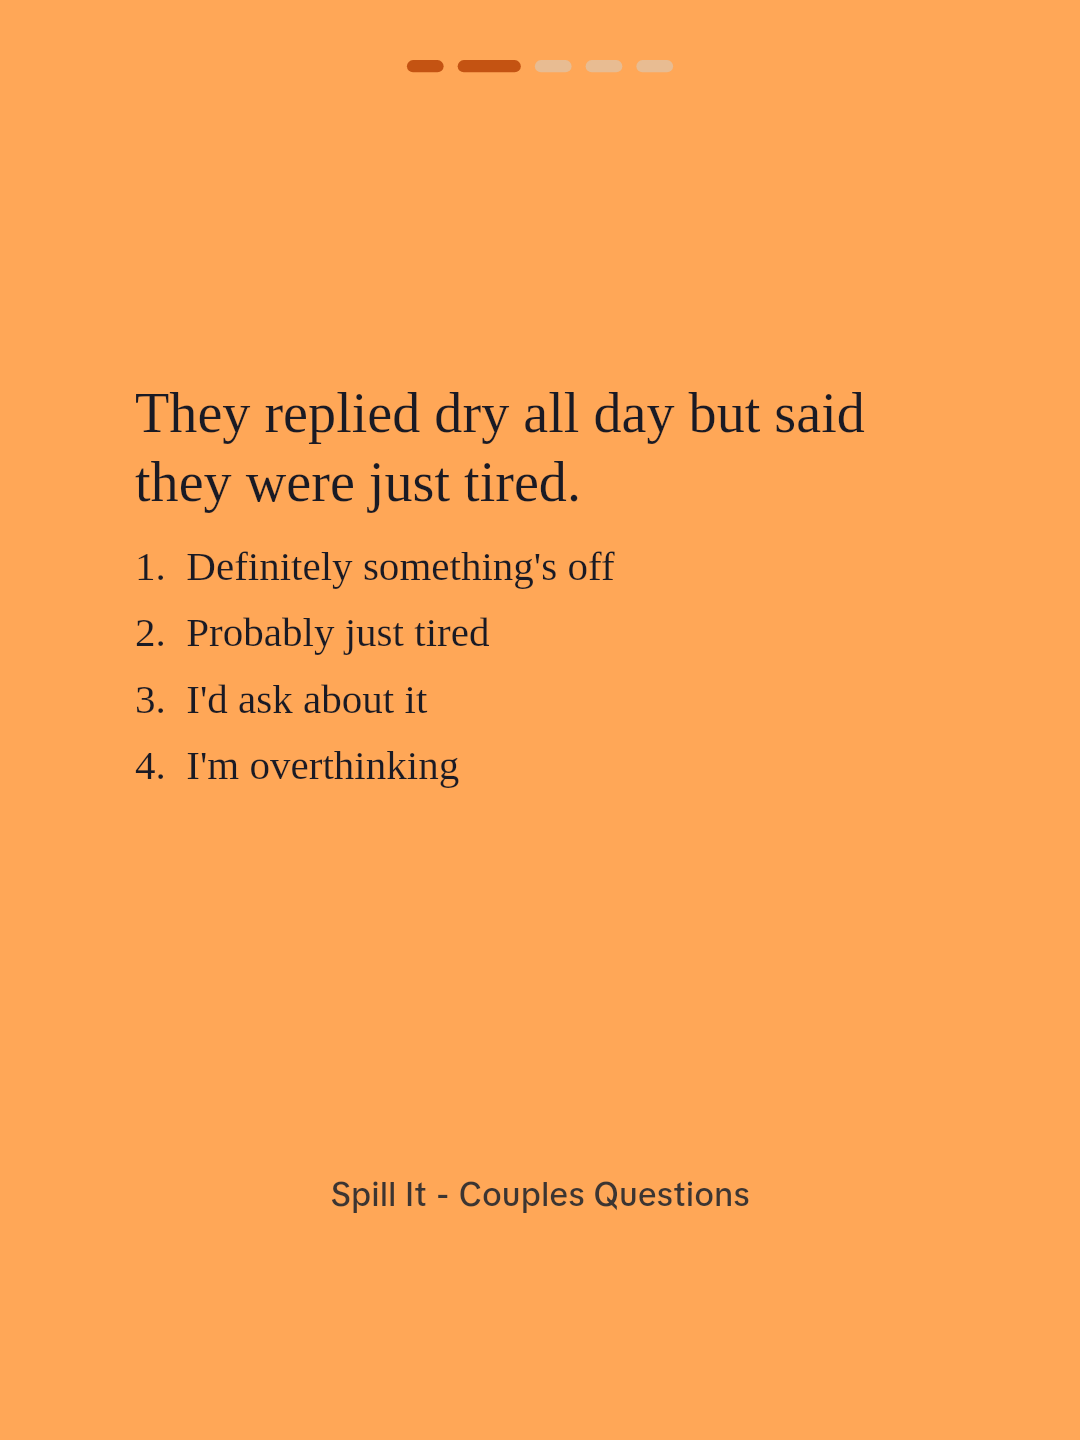
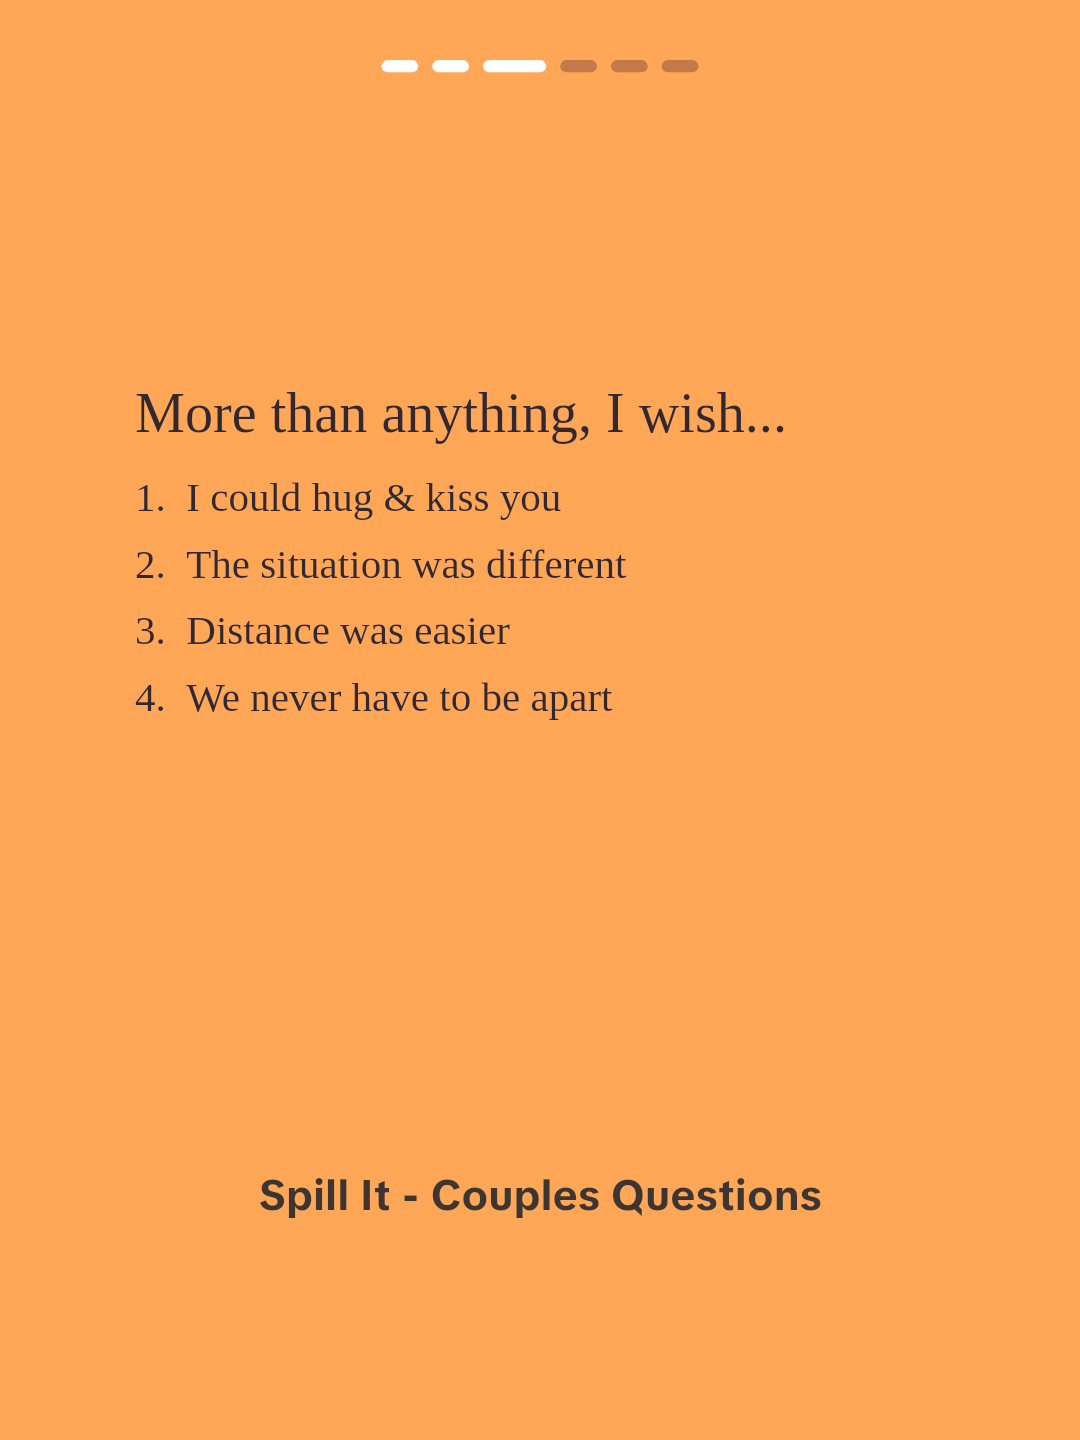
Match pastel dash progress, footer, and glow cover.
Question slides now count the cover as the first dash, the footer is larger and heavier, and the glow card uses a wider milky halo with rounder corners and the Spill It line on the blue card. Teal and orange question slides keep completed dashes light.

diff --git a/app/lib/image-template-30-pastel-dashes.ts b/app/lib/image-template-30-pastel-dashes.ts
@@ -6,20 +6,22 @@ import { paintImageTemplate2Q5Promo } from '@/app/lib/image-template-2-cover';
  * Pastel dash slideshow (image template 30).
  *
  * Full-bleed flat colour, no card and no vignette. The colour changes per
- * slide. Question slides carry a small centred progress bar of rounded dashes,
- * one per question: dashes up to the current one are a darker accent, and the
- * current dash is wider. The rest stay faint.
+ * slide. Question slides carry a small centred progress bar of rounded dashes.
+ * The cover is the first segment, then one dash per question. The CTA is not
+ * a dash. Completed segments (including the cover) use the accent, the current
+ * question is the same colour and wider, and the rest stay faint. A five-question
+ * set therefore has six dashes, and the first question is short + wide + four faint.
  *
- * Sans (the main look): bold dark navy question, left aligned around a third
+ * Sans (the main look): bold warm-ink question, left aligned around a third
  * of the height, with lettered options "A.  yes". The cover is a centred bold
  * headline with one keyword on a soft pink marker. No progress bar on the cover.
  *
  * Serif: the same colour, dashes, and footer, with a regular serif question
  * and numbered options "1.  …". The plain cover is centred serif with no marker.
  *
- * Glow cover: a bright-blue rounded card with a soft blurred edge on black,
- * and centred bold black sans. Choosing it also switches the question colours
- * to the brighter set.
+ * Glow cover: a bright-blue rounded card on black, with a wide milky halo
+ * rather than a tight rim, centred bold black sans, and the Spill It footer
+ * on the card. Choosing it also switches the question colours to the brighter set.
  *
  * The last slide is template 2's "Download for more questions!" App Store mock.
  * Footer is the shared Spill It string. Type is TikTok Sans, or Liberation Serif
@@ -31,6 +33,8 @@ export const IMAGE_TEMPLATE30_CTA_TAB = IMAGE_TEMPLATE30_SLIDE_COUNT - 1;
 
 export const IMAGE_TEMPLATE30_FOOTER = IMAGE_TEMPLATE2_APP_FOOTER;
 export const IMAGE_TEMPLATE30_INK = '#1A1A24';
+/** Question body, warmed slightly from the cover ink toward a brown-plum. */
+export const IMAGE_TEMPLATE30_QUESTION_INK = '#322830';
 export const IMAGE_TEMPLATE30_FOOTER_COLOR = '#645655';
 export const IMAGE_TEMPLATE30_MARKER = 'rgba(255, 142, 150, 0.72)';
 export const IMAGE_TEMPLATE30_GLOW_CARD = '#3DB7FF';
@@ -101,10 +105,15 @@ const SERIF_QUESTIONS: readonly SlideTone[] = [
   { bg: '#F7E38A', accent: '#C49A2A', faint: '#E6D48A' },
 ];
 
-/** Brighter question colours that travel with the glow-card cover. */
+/**
+ * Brighter question colours that travel with the glow-card cover.
+ * Teal and orange are bright enough that a dark accent inverts the bar:
+ * completed and current dashes stay light, and the remaining dashes are a
+ * darker muted shade of the field.
+ */
 const BRIGHT_QUESTIONS: readonly SlideTone[] = [
-  { bg: '#01C1A8', accent: '#0A5E54', faint: '#7ED9CB' },
-  { bg: '#FFA757', accent: '#C45312', faint: '#E8BC92' },
+  { bg: '#01C1A8', accent: '#FFFFFF', faint: '#2A6E64' },
+  { bg: '#FFA757', accent: '#FFFFFF', faint: '#C17A48' },
   { bg: '#FFA6D6', accent: '#D43A86', faint: '#E898C8' },
   { bg: '#7FD0FF', accent: '#1A6FB0', faint: '#B7E4FA' },
   { bg: '#FFE14A', accent: '#C48A12', faint: '#E8D48A' },
@@ -125,8 +134,8 @@ const OPTION_WEIGHT_SANS = 700;
 const OPTION_WEIGHT_SERIF = 400;
 
 const FOOTER_Y = 0.83;
-const FOOTER_SIZE = 0.03;
-const FOOTER_WEIGHT = 500;
+const FOOTER_SIZE = 0.039;
+const FOOTER_WEIGHT = 700;
 
 const COVER_SIZE = 0.064;
 const COVER_LEADING = 1.14;
@@ -141,9 +150,10 @@ const BAR_WIDTH = 0.034;
 const BAR_CURRENT_SCALE = 1.72;
 const BAR_GAP = 0.013;
 
-const GLOW_INSET_X = 0.078;
-const GLOW_INSET_Y = 0.062;
-const GLOW_RADIUS = 0.055;
+const GLOW_INSET_X = 0.069;
+const GLOW_INSET_Y = 0.052;
+/** Well above the old 0.055 rim, so the blue card reads as a rounded slab. */
+const GLOW_RADIUS = 0.11;
 
 const STOPWORDS = new Set([
   'is', 'it', 'to', 'for', 'your', 'the', 'a', 'an', 'of', 'and', 'do', 'this', 'that',
@@ -396,19 +406,21 @@ function paintProgress(
   accent: string,
   faint: string
 ) {
-  const count = Math.max(1, questionCount);
-  const current = Math.min(count, Math.max(1, tabIndex));
+  const questions = Math.max(1, questionCount);
+  // Index 0 is the cover. The CTA is not a segment.
+  const count = questions + 1;
+  const current = Math.min(questions, Math.max(1, tabIndex));
   const dashH = Math.max(8, height * BAR_HEIGHT);
   const dashW = width * BAR_WIDTH;
   const gap = width * BAR_GAP;
   const widths = Array.from({ length: count }, (_, index) =>
-    index + 1 === current ? dashW * BAR_CURRENT_SCALE : dashW
+    index === current ? dashW * BAR_CURRENT_SCALE : dashW
   );
   const total = widths.reduce((sum, value) => sum + value, 0) + gap * Math.max(0, count - 1);
   let x = (width - total) / 2;
   const y = height * BAR_Y - dashH / 2;
   widths.forEach((dashWidth, index) => {
-    ctx.fillStyle = index < current ? accent : faint;
+    ctx.fillStyle = index <= current ? accent : faint;
     roundRect(ctx, x, y, dashWidth, dashH, dashH / 2);
     ctx.fill();
     x += dashWidth + gap;
@@ -508,13 +520,21 @@ function paintGlowCover(
   const cardW = width - left * 2;
   const cardH = height - top * 2;
   const radius = width * GLOW_RADIUS;
-  ctx.save();
-  ctx.shadowColor = 'rgba(61, 183, 255, 0.95)';
-  ctx.shadowBlur = width * 0.05;
-  ctx.fillStyle = IMAGE_TEMPLATE30_GLOW_CARD;
-  roundRect(ctx, left, top, cardW, cardH, radius);
-  ctx.fill();
-  ctx.restore();
+  // A pale bloom under the card. Shadow blur stays grey in this canvas, so the
+  // halo is a blurred milky fill that the flat card covers.
+  const paintBloom = (blurRatio: number, color: string, growRatio: number) => {
+    const grow = width * growRatio;
+    ctx.save();
+    ctx.filter = `blur(${Math.max(1, width * blurRatio)}px)`;
+    ctx.fillStyle = color;
+    roundRect(ctx, left - grow, top - grow, cardW + grow * 2, cardH + grow * 2, radius + grow);
+    ctx.fill();
+    ctx.restore();
+  };
+  paintBloom(0.024, '#F7FCFF', 0.009);
+  paintBloom(0.052, 'rgba(210, 236, 255, 0.8)', 0.007);
+  paintBloom(0.102, 'rgba(160, 214, 255, 0.45)', 0);
+  ctx.filter = 'none';
   ctx.shadowColor = 'transparent';
   ctx.shadowBlur = 0;
   ctx.fillStyle = IMAGE_TEMPLATE30_GLOW_CARD;
@@ -642,7 +662,7 @@ function paintQuestion(
     if (questionSize === minQuestion && optionSize === minOption) break;
   }
 
-  ctx.fillStyle = IMAGE_TEMPLATE30_INK;
+  ctx.fillStyle = IMAGE_TEMPLATE30_QUESTION_INK;
   ctx.textAlign = 'left';
   ctx.textBaseline = 'top';
   ctx.font = `${questionWeight} ${questionSize}px ${fontFamily}`;
@@ -734,6 +754,7 @@ export function paintTemplate30Slide(
 
   if (isCover && look.cover === 'glow') {
     paintGlowCover(ctx, width, height, options.text, sans);
+    paintFooter(ctx, width, height, sans, footerColorFor(IMAGE_TEMPLATE30_GLOW_CARD));
     return;
   }
 

diff --git a/scripts/render-template-30.ts b/scripts/render-template-30.ts
@@ -57,10 +57,16 @@ async function main() {
       .filter((line) => /^[a-d][.)]\s+\S/i.test(line));
   const clean = (body) => {
     const lines = optionLines(body);
-    return (
-      lines.length >= 3 &&
-      lines.every((line) => line.replace(/^[a-d][.)]\s+/i, '').trim().length >= 4)
-    );
+    if (lines.length < 3) return false;
+    return lines.every((line) => {
+      const text = line.replace(/^[a-d][.)]\s+/i, '').trim();
+      if (text.length < 4) return false;
+      // Some source options lost their first letter ("urious", "alm + …").
+      const word = (text.split(/\s+/)[0] ?? '').replace(/[^A-Za-z]/g, '');
+      if (!word) return true;
+      if (word[0] === word[0].toUpperCase()) return true;
+      return ['yes', 'no', 'it', 'a', 'the', 'my', 'our'].includes(word.toLowerCase());
+    });
   };
   let questions = [];
   for (let attempt = 0; attempt < 12 && questions.length < IMAGE_TEMPLATE30_QUESTION_COUNT; attempt++) {
